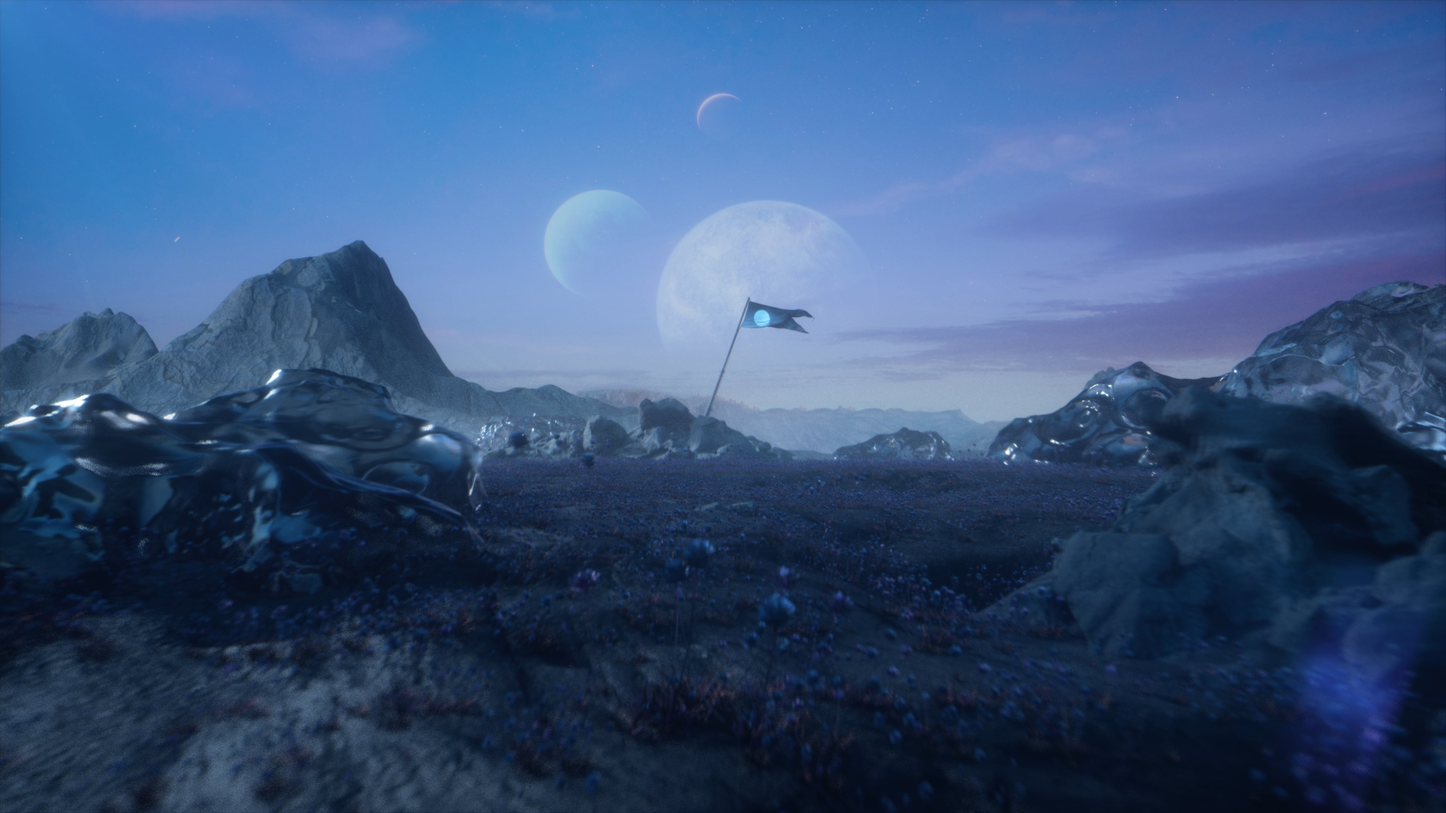
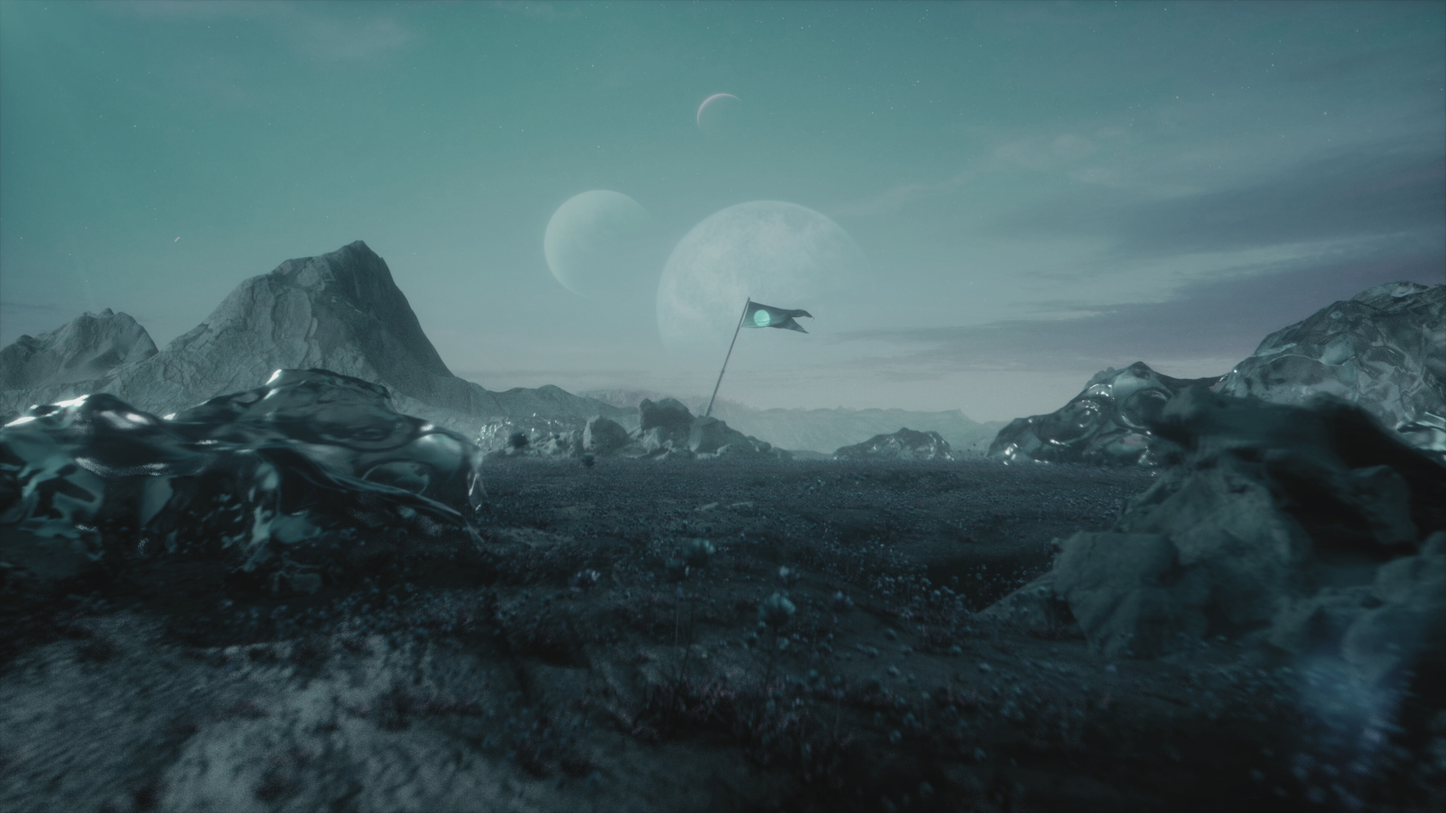
Switching to Nord theme!

diff --git a/.config/ags/topbar.js b/.config/ags/topbar.js
@@ -13,7 +13,7 @@ const INACTIVE_CSS = "font-size: 20px; color: gray; background: transparent; min
 const WorkspacesWidget = () => Workspaces({
         active: ACTIVE_CSS,
         inactive: INACTIVE_CSS,
-        box: 'background: black; min-width: 10px; min-height: 38px; margin-top: 6px; margin-left: 6px; padding-left: 4px; padding-right: 4px; border-radius: 6px;'
+        box: 'background: #2e3440; min-width: 10px; min-height: 38px; margin-top: 6px; margin-left: 6px; padding-left: 4px; padding-right: 4px; border-radius: 6px;'
     },
     [
         {
@@ -80,11 +80,11 @@ const CenterLayout = () => Widget.Box({
     spacing: 0,
     children: [
         Widget.Box({
-            css: 'background: black; min-width: 10px; min-height: 38px; margin-top: 6px; margin-right: 6px; padding-left: 10px; padding-right: 10px; border-radius: 6px;',
+            css: 'background: #2e3440; min-width: 10px; min-height: 38px; margin-top: 6px; margin-right: 6px; padding-left: 10px; padding-right: 10px; border-radius: 6px;',
             child: ActiveIcon('font-family: FiraCode; font-size: 20px;', { 'Code': 'Visual Studio Code' }, 'application-x-executable')
         }),
         Widget.Box({
-            css: 'background: black; min-width: 10px; min-height: 38px; margin-top: 6px; padding-left: 12px; padding-right: 12px; border-radius: 6px;',
+            css: 'background: #2e3440; min-width: 10px; min-height: 38px; margin-top: 6px; padding-left: 12px; padding-right: 12px; border-radius: 6px;',
             child: WindowTitle('font-family: FiraCode; font-size: 12px;', '[ N 0 T H 1 N G ]')
         })
     ]
@@ -97,7 +97,7 @@ const RightLayout = () => Widget.Box({
     children: [
         Widget.Box({ hexpand: true }),
         Widget.Box({
-            css: 'background: black; min-width: 10px; min-height: 38px; margin-top: 6px; margin-right: 6px; padding-left: 12px; padding-right: 12px; border-radius: 6px;',
+            css: 'background: #2e3440; min-width: 10px; min-height: 38px; margin-top: 6px; margin-right: 6px; padding-left: 12px; padding-right: 12px; border-radius: 6px;',
             child: PowerProfiles(
                 { 'performance': '', 'balanced': '', 'power-saver': '' },
                 'font-family: FiraCode; font-size: 20px; margin-right: 8px;',
@@ -105,7 +105,7 @@ const RightLayout = () => Widget.Box({
             )
         }),
         SystemTray(
-            'background: black; min-width: 10px; min-height: 38px; margin-top: 6px; margin-right: 6px; padding-left: 4px; padding-right: 4px; border-radius: 6px;',
+            'background: #2e3440; min-width: 10px; min-height: 38px; margin-top: 6px; margin-right: 6px; padding-left: 4px; padding-right: 4px; border-radius: 6px;',
             'font-size: 20px; min-width: 32px; min-height: 32px;'
         ),
         QuickActions(
@@ -113,7 +113,7 @@ const RightLayout = () => Widget.Box({
                 { icon: '', tooltip: 'Notification Centre', action: () => { console.log('TODO: Notification Centre') } },
                 { icon: '', tooltip: 'Quick Settings', action: () => { console.log('TODO: Quick Settings') } }
             ], 
-            'background: black; min-width: 10px; min-height: 38px; margin-top: 6px; margin-right: 6px; padding-left: 10px; padding-right: 4px; border-radius: 6px;',
+            'background: #2e3440; min-width: 10px; min-height: 38px; margin-top: 6px; margin-right: 6px; padding-left: 10px; padding-right: 4px; border-radius: 6px;',
             'font-size: 20px; margin-right: 14px;',
         )
     ]

diff --git a/.config/ags/bottombar.js b/.config/ags/bottombar.js
@@ -12,7 +12,19 @@ const LeftLayout = () => Widget.Box({
     homogeneous: false,
     spacing: 0,
     children: [
-        
+        CPUMonitor(),
+        Widget.Box({ css: 'min-width: 6px;' }),
+        Widget.Box({
+            css: 'margin-top: 4px;',
+            vertical: true,
+            children: [
+                CoreTemp(),
+                DiskSpace()
+            ]
+        }),
+        Widget.Box({ css: 'min-width: 6px;' }),
+        RAMMonitor(),
+        Widget.Box({ hexpand: true }),
     ]
 })
 
@@ -29,25 +41,12 @@ const RightLayout = () => Widget.Box({
     spacing: 0,
     children: [
         Widget.Box({ hexpand: true }),
-        CPUMonitor(),
-        Widget.Box({ css: 'min-width: 6px;' }),
-        Widget.Box({
-            css: 'margin-top: 4px;',
-            vertical: true,
-            children: [
-                CoreTemp(),
-                DiskSpace()
-            ]
-        }),
-        Widget.Box({ css: 'min-width: 6px;' }),
-        RAMMonitor(),
-        Widget.Box({ css: 'min-width: 6px;' }),
         DateWidget(
             'margin-top: 2px; margin-right: 8px;', 
             'color: rgba(255, 255, 255, 0.8); font-family: FiraCode; font-size: 14px;',
             'color: white; font-family: FiraCode; font-size: 14px;'
         ),
-        Clock('font-family: FiraCode; font-size: 28px;'),
+        Clock('font-family: FiraCode; font-size: 28px; margin-top: 4px;'),
         Widget.Separator({
             vertical: true,
             class_names: ['sep']
@@ -67,7 +66,7 @@ const Layout = () => Widget.CenterBox({
     vertical: false,
     homogeneous: false,
     spacing: 0,
-    css: 'background: rgba(0, 0, 0, 0.1); min-height: 42px; border-radius: 8px; margin: 6px; margin-top: 4px; padding-right: 8px; padding-left: 8px;',
+    css: 'background: #2e3440; min-height: 42px; border-radius: 8px; margin: 6px; margin-top: 4px; padding-right: 8px; padding-left: 8px;',
     start_widget: LeftLayout(),
     center_widget: CenterLayout(),
     end_widget: RightLayout()

diff --git a/README.md b/README.md
@@ -8,7 +8,7 @@
 ░▒▓███████▓▒░ ░▒▓██████▓▒░  ░▒▓█▓▒░  ░▒▓███████▓▒░  
 ```
 
-These are my legendary WIP dotfiles (they will prlly be maintained forever!).
+These are my legendary WIP dotfiles (they will prlly be maintained forever!). I use the 'Nord' color palette.
 They're managed with GNU's `stow` utility.
 
 # Screenshots
@@ -31,6 +31,9 @@ There's a bunch of treasures hidden for ricers in the depths of this repo. Here'
 - Other scripts I use
 
 # Features (WIP)
+EVERYTHING is a tile. This is a WIP.
+Tiles can have hidden contents which can be revealed by scrolling.
+
 - [x] Top bar:
     - Left: Workspaces
     - Center: Active window info
